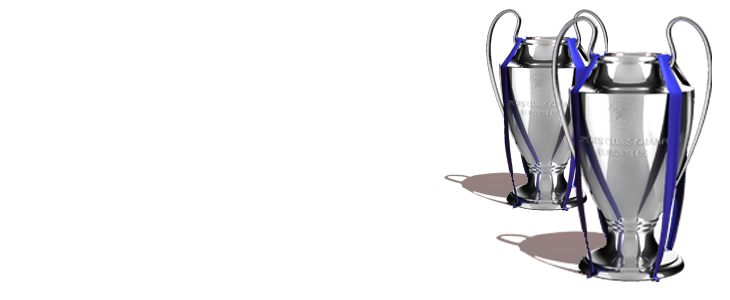
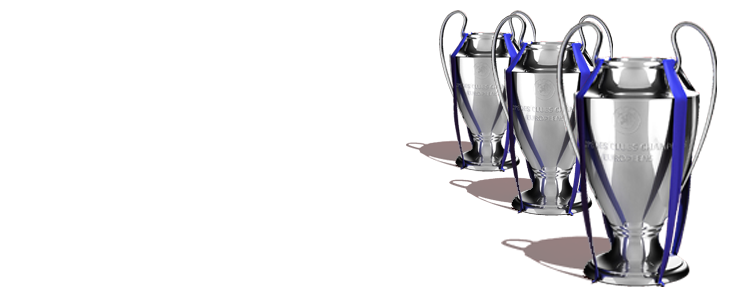
aggiunto hero ewc

Changed region(s): [[0.5425, 0.03, 0.9945, 0.96]]

diff --git a/index.php b/index.php
@@ -41,33 +41,17 @@
     </div>
     <div id="main">
         <div id="herospace">
-            <div class="hero" style="background-image:url(_static/img/hero-2002.png);">
-                <h2>
-                    Saronno. Since 2002<br />
-
-                </h2>
-                <h3>
-                    Il primo Club di TchoukBall<br />in Italia!
-                </h3>
-            </div>
-            <?php if (false) { ?>
-            <div class="hero" style="background-image:url(_static/img/hero-championships.png);display:none;">
-                <h2>
-                    Saronno Castor<br />
-                    4 volte campioni d&rsquo;Italia
-                </h2>
-                <h3>
-                    2007 &bull; 2008 &bull; 2009 &bull; 2010
-                </h3>
-            </div>
-            <div class="hero" style="background-image:url(_static/img/hero-ewcs.png);display:none;">
-                <h2>
-                    Saronno Castor<br />
-                    Campioni d&rsquo;Europa in carica
-                </h2>
-                <h3>
-                    2010 &bull; 2011
-                </h3>
+            <?php
+                $hero = array(
+                    // array('hero-championships.png', '', ''),
+                    array('hero-ewcs.png', 'Campioni d&rsquo;Europa!', "I <b>Saronno Castor</b> hanno vinto<br />per il terzo anno consecutivo<br />l'<b>European Winners' Cup</b><br />confermandosi squadra di club<br />ai vertici del vecchio continente"),
+                    array('hero-2002.png', 'Saronno. Since 2002', 'Il primo Club di TchoukBall<br />in Italia!'),
+                );
+                foreach ($hero AS $k => $h) {
+            ?>
+            <div class="hero" style="background-image:url('_static/img/<?php echo $h[0]; ?>');<?php if ($k != 0) echo 'display:none;' ?>">
+                <h2><?php echo $h[1]; ?></h2>
+                <h3><?php echo $h[2]; ?></h3>
             </div>
             <?php } ?>
         </div>
